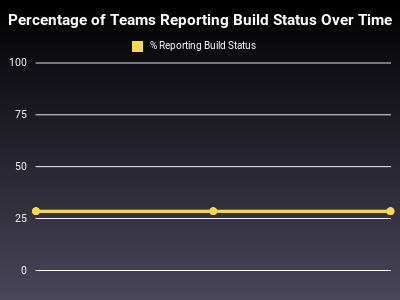
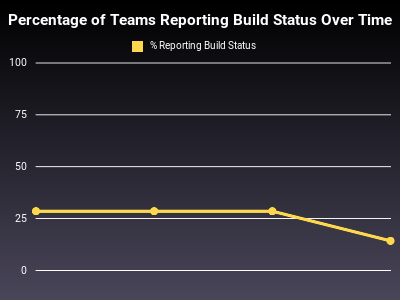
Team meeting updates from 5/20 (#15)

Changed region(s): [[0.66, 0.69, 0.99, 0.84], [0.51, 0.69, 0.54, 0.72], [0.36, 0.69, 0.39, 0.72]]

diff --git a/src/slack_meeting_stats.rb b/src/slack_meeting_stats.rb
@@ -212,7 +212,7 @@ end
 
 # Format Yes/No to display emojis
 def format_yes_no(value)
-  return '❌' if value.strip.upcase == 'N'
+  return '❌' if !value || value.strip.upcase == 'N'
   return '✅' if value.strip.upcase == 'Y'
 
   value

diff --git a/team_slack_reports.md b/team_slack_reports.md
@@ -12,6 +12,18 @@ This page is generated by slack_meeting_stats.rb, do not edit manually
 [![Build Status
  Reports](images/build_status-small.png)](images/build_status-full.png)
 
+## 2025-03-20
+
+| Team | Present | Current work | Build Status | If builds broken, points to work to fix it | Extra |
+| --- | ---- | --- | --- | --- | --- |
+| Automate | ✅ | ✅ | ❌ | ❌ | - |
+| Chef Client | ✅ | ✅ | ❌ | ❌ | - |
+| Chef Server | ✅ | ✅ | ❌ | ❌ | - |
+| Chef Workstation | ❌ | ❌ | ❌ | ❌ | - |
+| Courier | ✅ | ✅ | ❌ | ❌ | - |
+| Habitat | ✅ | ✅ | main:✅ | ❌ | - |
+| Inspec | ✅ | ✅ | ❌ | ❌ | listed merged PRs |
+
 ## 2025-03-13
 
 | Team | Present | Current work | Build Status | If builds broken, points to work to fix it | Extra |
